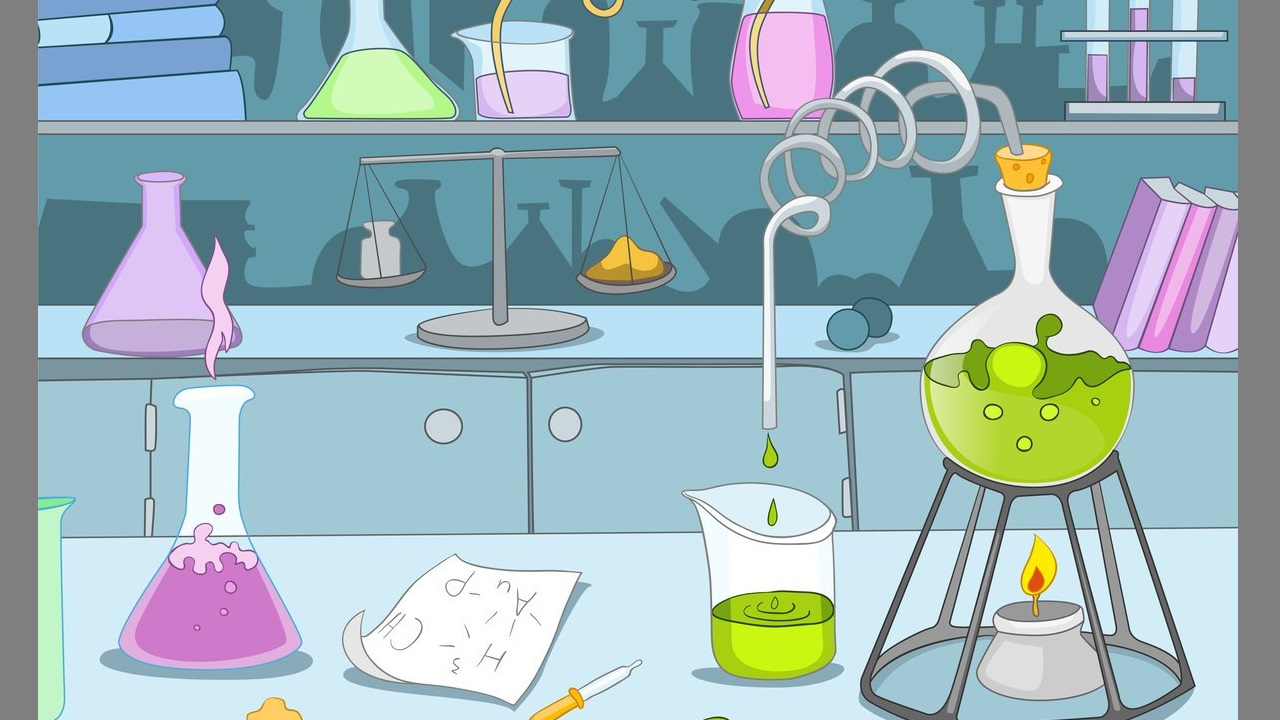
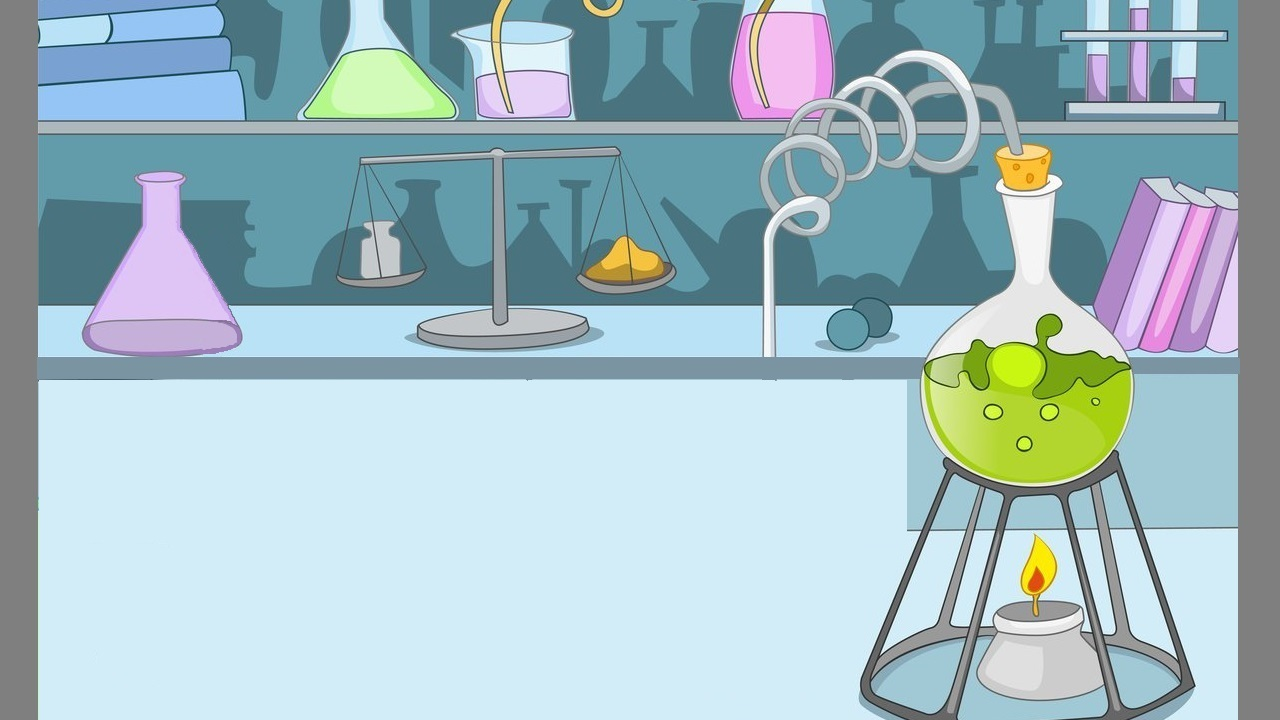
Changed and added some assets. Change code slightly.

Changed region(s): [[0.0312, 0.3361, 0.7188, 1.0], [0.875, 0.4889, 0.9688, 0.5194], [0.4688, 0.9167, 0.5, 0.9472]]

diff --git a/core/src/com/chemistry/ExperimentWindow.java b/core/src/com/chemistry/ExperimentWindow.java
@@ -15,13 +15,20 @@ import static com.chemistry.ExperimentChooseWindow.choosenExperiment;
 public class ExperimentWindow implements Screen {
     final ChemistryModelingGame game;
     private final Texture experimentBackground;
+    private final Texture inventoryTexture;
     private final DBHandler handler = new DBHandler();
     private final OrthographicCamera camera;
     private final ArrayList<Substance> usedSubstances = new ArrayList<>();
+    private final ArrayList<Integer> inventory = new ArrayList<>(3);
+
     public static Rectangle mouseSpawnerRect;
+
+    private final Rectangle exitBtn;
+
     public static Integer x_pos;
     public static Integer y_pos;
     public static Boolean startSpawn = false;
+    public static Integer choosedSubstance;
     public ExperimentWindow(ChemistryModelingGame game) throws SQLException, ClassNotFoundException {
         this.game = game;
 
@@ -35,7 +42,11 @@ public class ExperimentWindow implements Screen {
         mouseSpawnerRect.setPosition(-100,-100); //If nearby exists another rectangle - go methods.
         mouseSpawnerRect.setSize(10, 10);
 
+        exitBtn = new Rectangle();
+        exitBtn.setPosition(38, 0);
+
         experimentBackground = new Texture(choosenExperiment.getTexture_path());
+        inventoryTexture = new Texture("inventory.png");
 
         ResultSet substancesIDS = handler.getUsingSubstancesIDs(choosenExperiment.getExp_id());
 
@@ -69,16 +80,24 @@ public class ExperimentWindow implements Screen {
 
         game.batch.begin();
         game.batch.draw(experimentBackground,0,0);
+        game.batch.draw(inventoryTexture, 38, 230);
         for (Substance subs : usedSubstances){
             game.batch.draw(subs.getTexture_path(), subs.getX(), 720 - subs.getY() - subs.getHeight());
         }
         game.batch.end();
 
         if(startSpawn){
+            int i = 0;
             for (Substance subs : usedSubstances){
+                i++;
                 if (subs.overlaps(mouseSpawnerRect)){
-                    System.out.println("Working?");
+                    choosedSubstance = i;
+                    if (inventory.size() < 3){
+
+                        inventory.add(choosedSubstance);
+                    } else System.out.println("We are full!");
                     startSpawn = false;
+                    break;
                 }
             }
         }
